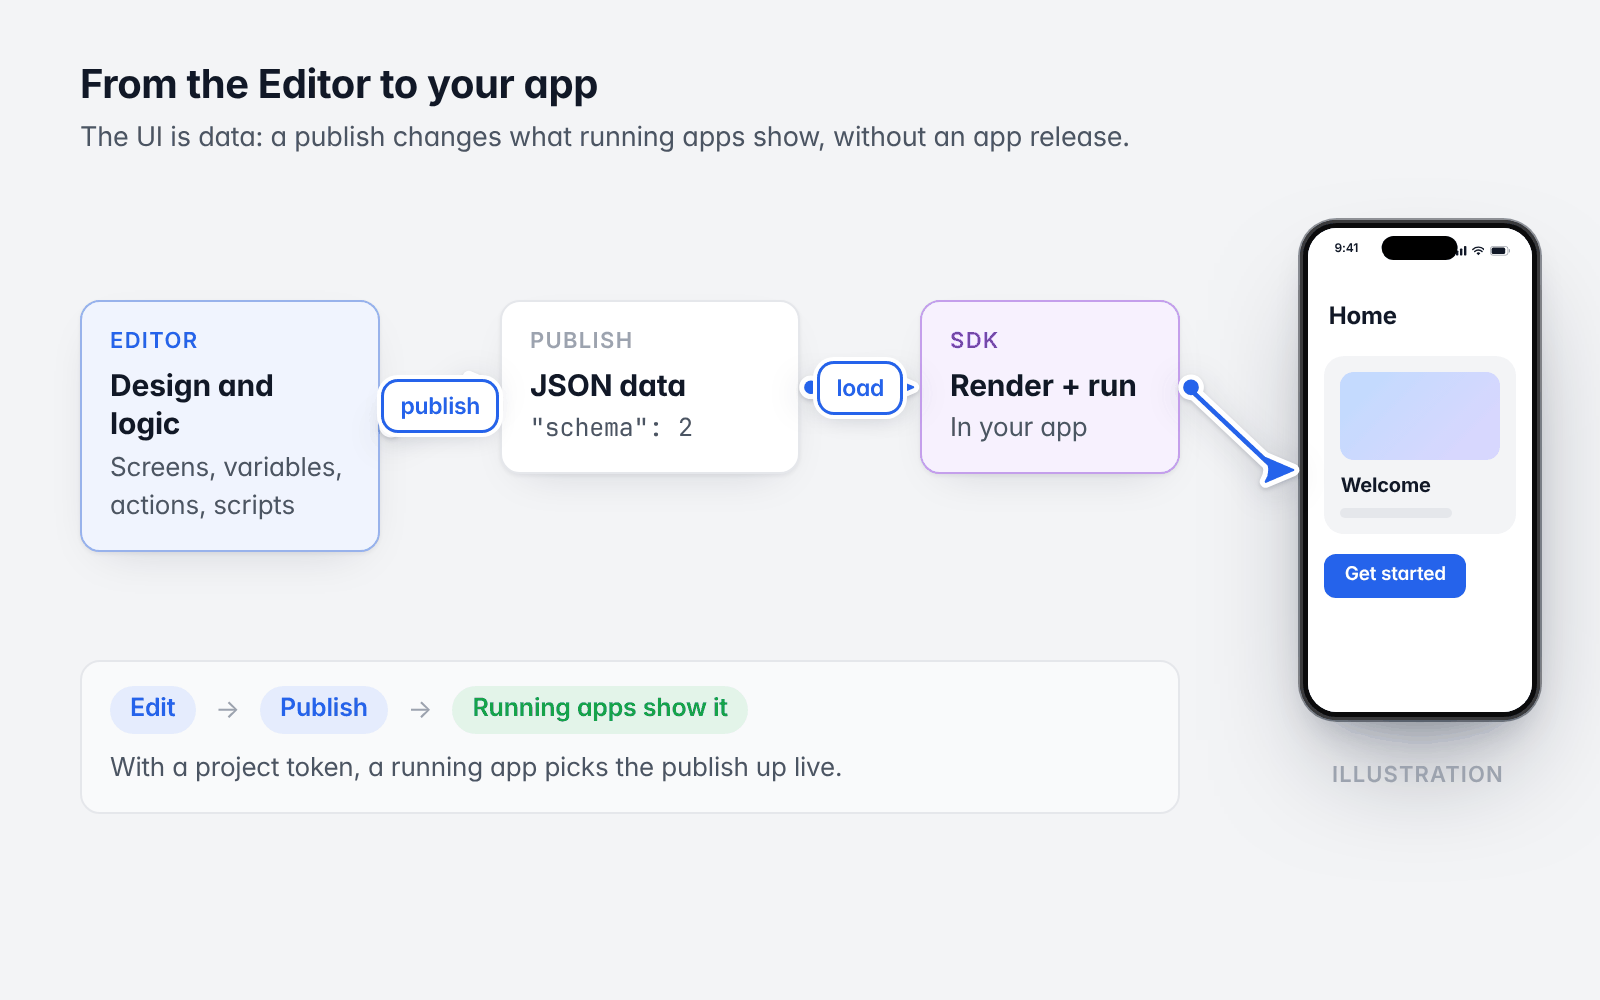
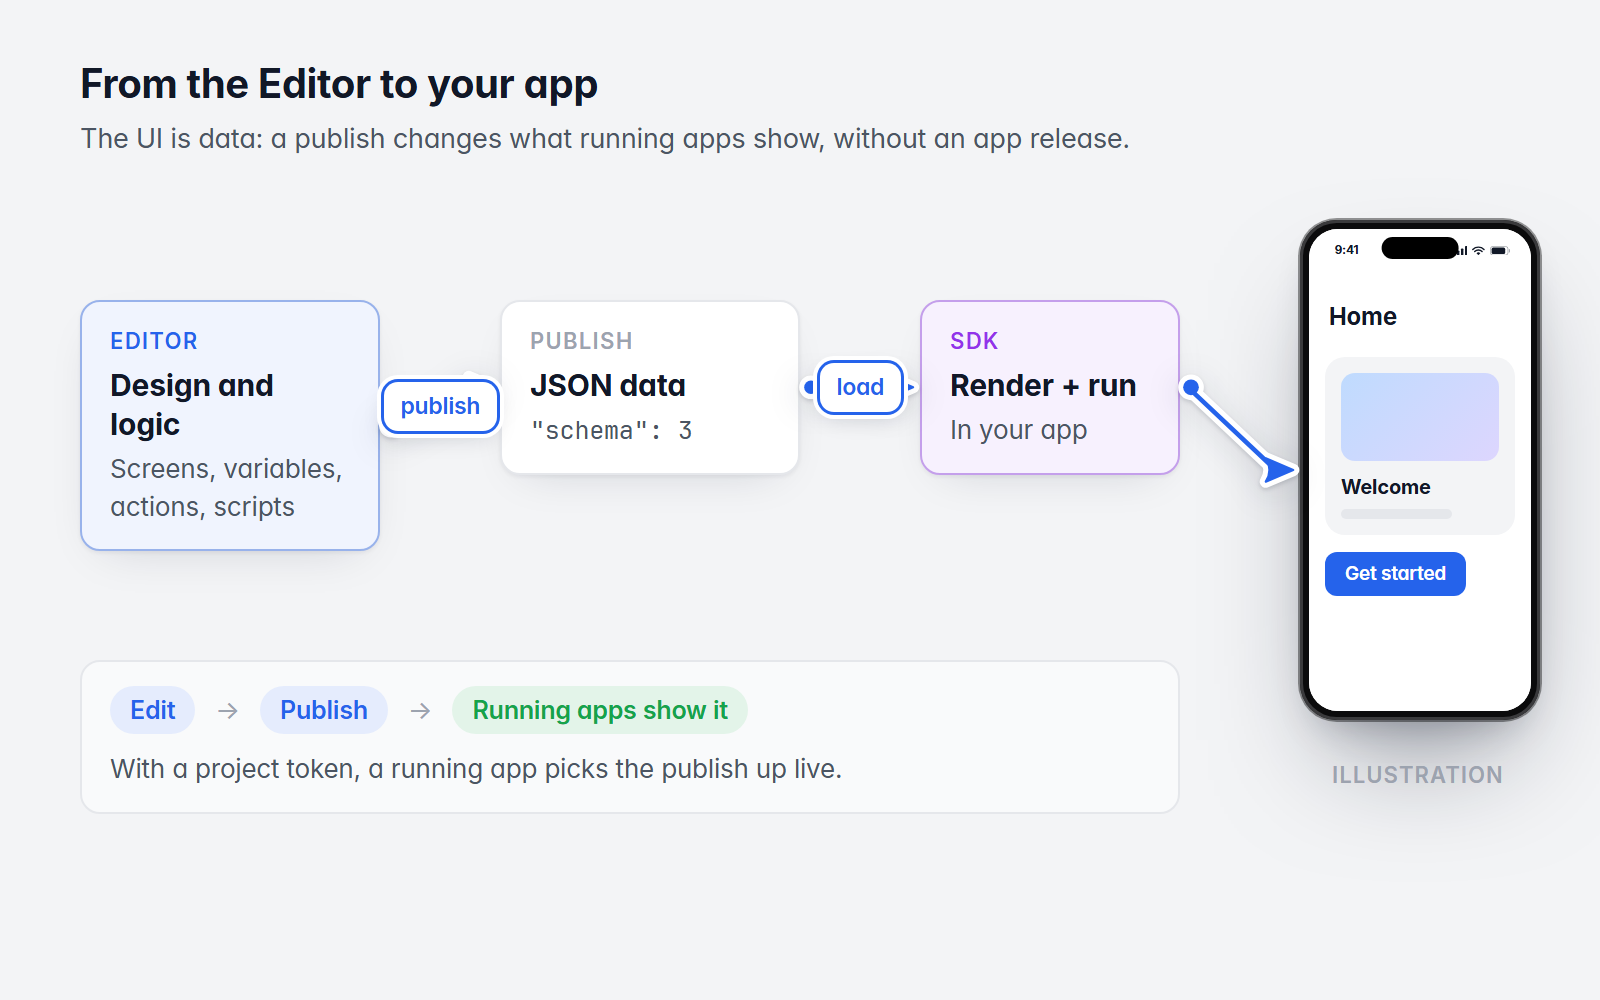
Schema 3 only, the rest: the guide no longer names removed spellings; its pictures say schema 3

diff --git a/test/actions/submit_form_test.dart b/test/actions/submit_form_test.dart
@@ -23,8 +23,7 @@ void main(){
  test('a submission its validator rejects is not stored and runs no success actions',()async{final h=FormHarness(runner:Validator({'valid':false,'errors':{'age':'Must be 18+'}}));await h.submit({'validationScript':'validate'});expect(h.scope.read('responses'),isEmpty);expect(h.scope.read('success'),false);expect(h.scope.read('errors'),{'age':'Must be 18+'});expect((h.scope.read('result') as Map)['error'],containsPair('code','validation_failed'));});
  test('a submission with nowhere to go, or with values that are not a record, fails and changes nothing',()async{final h=FormHarness();await h.submit({'responseVariable':'missing'});expect(h.scope.read('responses'),isEmpty);expect((h.scope.read('result') as Map)['error'],containsPair('code','invalid_response_variable'));await h.submit({'payload':'42'});expect(h.scope.read('responses'),isEmpty);expect((h.scope.read('result') as Map)['ok'],false);});
 
- group('a submission saved for the removed newsletter services',(){
-  // A layout saved before the built-in Mailchimp service was removed.
+ group('a submission to a service other than the local one',(){
   const legacy={'type':'submitForm','service':'mailchimp','emailField':'email','apiKey':'secret-us1','dataCenter':'us1','listId':'list','firstNameField':'first'};
   Future<List<Object>> noNetwork(Future<void> Function() body)async{
    final requests=<Object>[];

diff --git a/lib/src/features/data/data.dart b/lib/src/features/data/data.dart
@@ -254,9 +254,8 @@ Future<void> _cloudFiles(ActionDef action, ActionRun run) async {
 
 // --- forms ---------------------------------------------------------------------------
 
-/// A form submission. Only the local service runs: an older layout's
-/// built-in newsletter service (or an unknown one), decoded as
-/// [FormService.unsupported], sends nothing and fails as
+/// A form submission. Only the local service runs: any other service,
+/// decoded as [FormService.unsupported], sends nothing and fails as
 /// `unsupported_service` through the same result and callbacks.
 ///
 /// Validation finishes before any response is stored. Persisting the

diff --git a/docs/guide/06-actions-and-functions.md b/docs/guide/06-actions-and-functions.md
@@ -13,7 +13,7 @@ are made in the Editor and run by the SDK; your app takes part through **functio
 |---|---|
 | Pointer | `click`, `doubleTap`, `longPress`, `hold`, `secondaryClick`, `pointerDown`, `pointerUp`, `hover`, `cursorEnter`, `cursorExit`, `swipeLeft`, `swipeRight`, `swipeUp`, `swipeDown`, `drag`, `dragEnd`, `wheel`, `pinch` |
 | Inputs | `changed`, `changeEnd`, `submitted`, `editingComplete`, `focusGained`, `focusLost` |
-| Screen | `load`, `valueChanged` (a variable), `timer` (`intervalMs` a number or an expression; the legacy `clock` reads as it), `frame` (every frame while `when` holds: `${result.dt}`), `keyDown`, `keyUp`, `backPressed` |
+| Screen | `load`, `valueChanged` (a variable), `timer` (`intervalMs` a number or an expression), `frame` (every frame while `when` holds: `${result.dt}`), `keyDown`, `keyUp`, `backPressed` |
 | Scrolling | `scroll`, `scrollEnd`, `enterViewport`, `exitViewport` |
 | Lists | `refresh`, `swipeAction`, `reorder` |
 | Drag and drop | `dragStart`, `dragCancel`, `dragCompleted`, `drop`, `dragEnter`, `dragExit`, `dragHover`, `dropRejected`, `dropFull` |
@@ -23,13 +23,13 @@ are made in the Editor and run by the SDK; your app takes part through **functio
 | Area | Actions |
 |---|---|
 | Navigation | `navigate` (push, pop, replace, reset), `openModal` (dialog, sheets, full screen, popover, banner), `closeModal`, `openLink` |
-| State | `setVariable`, `animate` on a number `variable` (the legacy `animateVariable` reads as it), `setValue` (a node's properties), `setVariant`, `setStorage` |
+| State | `setVariable`, `animate` on a number `variable`, `setValue` (a node's properties), `setVariant`, `setStorage` |
 | Flow | `if`, `forEach`, `delay`, `confirm` |
 | Your code and the app | `callFunction`, `runScript`, `emitEvent` |
 | Data | `callApi`, `loadCloudData`, `reloadCloudData`, `cloudData`, `cloudDocuments`, `cloudBatch`, `cloudFiles`, `paginate` |
 | Accounts and purchases | `auth`, `paywall` |
 | Feedback | `showToast`, `haptic`, `playSound`, `speak`, `copyToClipboard` |
-| Inputs and motion | `submitForm`, `editText`, `focus`, `scrollTo`, `animate` (a node's `animations`: `forward`, `reverse`, `stop`, `animateTo`...; the legacy `playAnimation` reads as it), `controlDrag` |
+| Inputs and motion | `submitForm`, `editText`, `focus`, `scrollTo`, `animate` (a node's `animations`: `forward`, `reverse`, `stop`, `animateTo`...), `controlDrag` |
 | Capture | `captureScreenshot` |
 
 How a chain runs:
